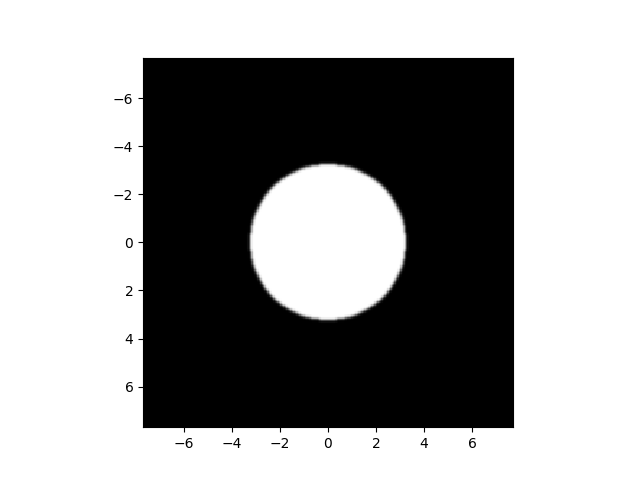
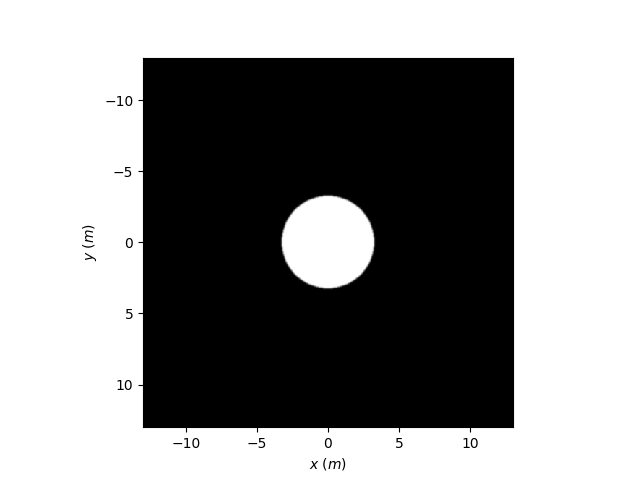
I got struts to work! Also more pics

diff --git a/src/project.py b/src/project.py
@@ -12,12 +12,13 @@ from .cassegrainpf import CassegrainPupilFunction
 from .cassegausspf import DirtyCassegrainPupilFunction
 from .squarepf import SquarePupilFunction
 from .gaussianrndf import GaussianRandomField
+from .modelpf import ModelPupilFunction
 
 #### Globals ####
 PI     = np.pi
 TWO_PI = 2. * PI
-ps     = 1.183  # padding scale factor
-N_samples = 256
+ps     = 2.  # padding scale factor
+N_samples = 512
 
 # DIAMETERS ARE IN METERS
 pupil  = SimplePupilFunction(diameter=6.5, samples=N_samples, padscale=ps)
@@ -25,6 +26,7 @@ dirty  = DirtySimplePupilFunction(diameter=6.5, samples=N_samples, padscale=ps)
 caspup = CassegrainPupilFunction(diameter=6.5, b=1.5, samples=N_samples, padscale=ps)
 dcaspf = DirtyCassegrainPupilFunction(diameter=6.5, b=1.5, samples=N_samples, padscale=ps)
 square = SquarePupilFunction(diameter=6.5, samples=N_samples, padscale=ps)
+model  = ModelPupilFunction(diameter=6.5, b=1.5, samples=N_samples, padscale=ps)
 gauss  = GaussianRandomField(pupil, lambda s: np.where(s > 1e-15, (1. / s)**(3.0), 0.))
 
 #### Memory management ####
@@ -45,7 +47,7 @@ def terminate():
     dcaspf = None
 
 #### Drawing logic ####
-def render_pupil(pupilFunc, k=TWO_PI, color=None):
+def render_pupil(pupilFunc, k=TWO_PI, color=None, filtering=True):
     '''
     pupilFunc: The complex Pupil Function to analyze
     k: Wavenumber of light (2π / λ)
@@ -56,21 +58,21 @@ def render_pupil(pupilFunc, k=TWO_PI, color=None):
     fig, ax = plt.subplots()
 
     if color is not None:
-        ax.imshow(pupilFunc.render(k, filtering=True).real, cmap=plt.get_cmap(color), extent=s_map)
+        ax.imshow(pupilFunc.render(k, filtering=filtering).real, cmap=plt.get_cmap(color), extent=s_map)
     else:
-        ax.imshow(pupilFunc.render(k, filtering=True).real, extent=s_map)
+        ax.imshow(pupilFunc.render(k, filtering=filtering).real, extent=s_map)
 
     ax.set_aspect('equal')
     ax.set_xlabel('$x$ ($m$)')
     ax.set_ylabel('$y$ ($m$)')
 
-def render_psf(pupilFunc, k=TWO_PI, color=None, noshift=False):
+def render_psf(pupilFunc, k=TWO_PI, color=None, noshift=False, filtering=True):
     '''
     pupilFunc: The complex Pupil Function to analyze
     k: Wavenumber of light (2π / λ)
     '''
     # PSF
-    psf = pupilFunc.psf(filtering=True, noshift=noshift)       # Generate PSF
+    psf = pupilFunc.psf(filtering=filtering, noshift=noshift)       # Generate PSF
     psf = psf / np.amax(psf)                                   # Rescale output so max value is 1. (luminance)
     psf = np.where(psf > 1e-15, psf, 0.)                       # Filter very low values
 
@@ -105,6 +107,9 @@ def plot_squarepupil():
 def plot_gsimplepupil():
     render_pupil(dirty, k=TWO_PI / 20e-2, color='gray')
 
+def plot_modelpupil():
+    render_pupil(model, k=TWO_PI / 20e-2, color='gray')
+
 # PSFs
 def plot_simplepsf():
     render_psf(pupil, color='magma')
@@ -113,13 +118,16 @@ def plot_gsimplepsf():
     render_psf(dirty, color='magma')
 
 def plot_cassepsf():
-    render_psf(caspup)
+    render_psf(caspup, color='magma')
 
 def plot_gcassepsf():
     render_psf(dcaspf)
 
 def plot_squarepsf():
     render_psf(square)
+
+def plot_modelpsf():
+    render_psf(model, color='magma')
 
 # Misc
 def plot_gauss():

diff --git a/src/modelpf.py b/src/modelpf.py
@@ -1,0 +1,25 @@
+import numpy as np
+
+from .abstractpf import AbstractPupilFunction
+
+class ModelPupilFunction(AbstractPupilFunction):
+    '''
+    Model pupil function
+
+    This is our **real** model
+
+    - P(x, y) = Same as the SimplePupilFunction, but with a hole with radius 'b'
+    - W(x, y) = 0 for no phase shifting
+    '''
+
+    strut_width = 0.05
+
+    def pFunc(self, x, y):
+        pass1 = np.where((x)**2 + (y)**2 <= (self.radius())**2, 1., 0.)
+        pass2 = np.where((x)**2 + (y)**2 > ((self.opts['b'] / 2.)**2), pass1, 0.)
+        pass3 = np.where(np.abs(x) < ModelPupilFunction.strut_width*self.radius(), 0., pass2)
+        pass4 = np.where(np.abs(y) < ModelPupilFunction.strut_width*self.radius(), 0., pass3)
+        return pass4
+
+    def wFunc(self, x, y):
+        return np.zeros((self.samples, self.samples))

diff --git a/src/abstractpf.py b/src/abstractpf.py
@@ -110,7 +110,7 @@ class AbstractPupilFunction(object):
         '''
         FFT the pupil function, given its parameters, and produce the PSF
         '''
-        shift_test = fftshift(self.render(k, filtering=filtering))
+        shift_test = self.render(k, filtering=filtering)
         transform  = None
 
         if noshift:
